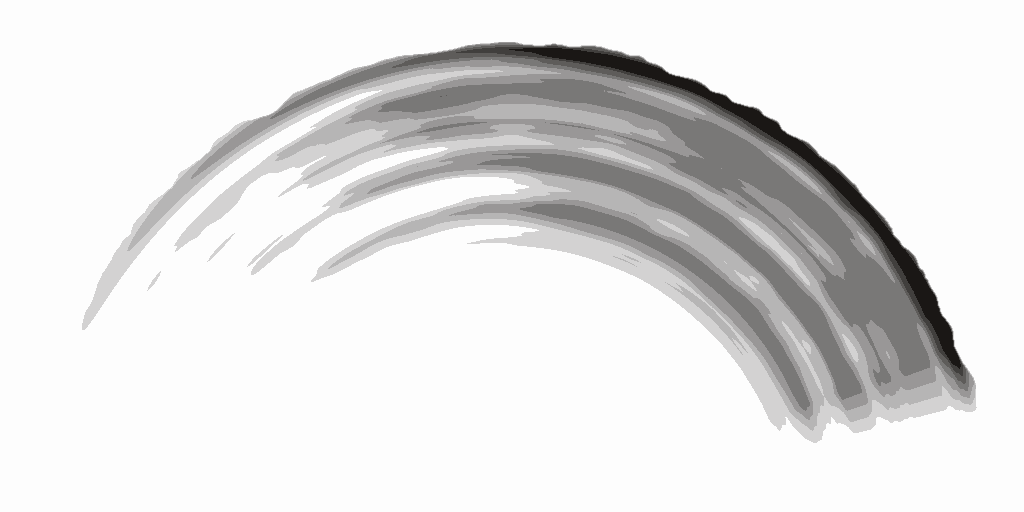
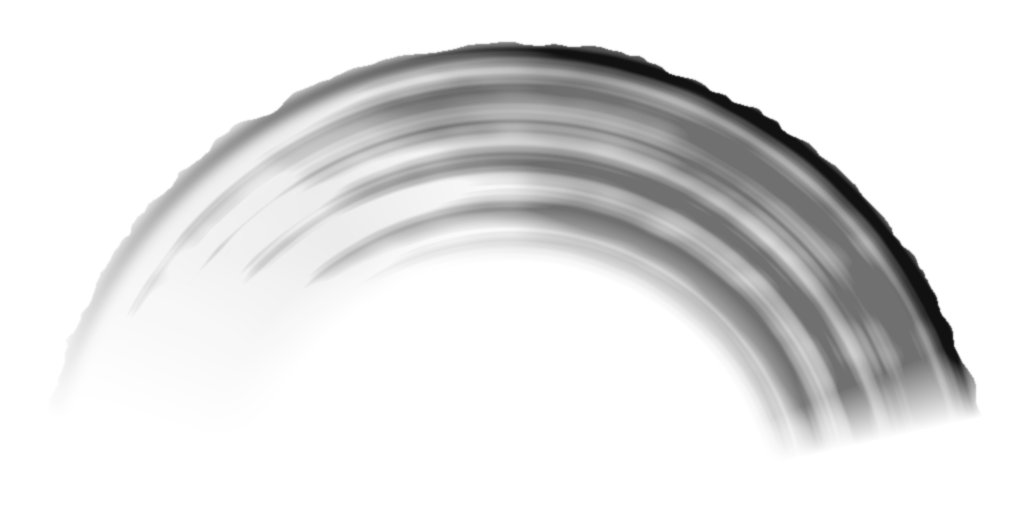
Godot take C8 F-18: slash textures as 256-level greyscale+alpha PNGs, no posterization bands

diff --git a/godot/tools/bake_fx.py b/godot/tools/bake_fx.py
@@ -5,11 +5,13 @@ from brush import Canvas, _fbm
 OUT = '../art'
 rng = np.random.default_rng(7)
 
-def save_ink(a, path, rgb=(20, 17, 15)):
+def save_ink(a, path, rgb=(20, 17, 15), colors=128):
+    """Single ink colour, so only alpha carries information: save as grey+alpha (LA) to keep
+    all 256 alpha levels (RGBA octree quantizing collapsed them to ~8 bands)."""
     a = np.clip(a, 0, 1)
-    im = np.zeros(a.shape + (4,), np.uint8); im[..., 0], im[..., 1], im[..., 2] = rgb
-    im[..., 3] = (a * 255).astype(np.uint8)
-    Image.fromarray(im, 'RGBA').quantize(colors=128, method=Image.Quantize.FASTOCTREE, dither=Image.Dither.NONE).save(path, optimize=True)
+    im = np.zeros(a.shape + (2,), np.uint8); im[..., 0] = int(sum(rgb) / 3)
+    im[..., 1] = (a * 255).astype(np.uint8)
+    Image.fromarray(im, 'LA').save(path, optimize=True)
 
 def slash(path, seed, W=1024, H=512):
     r_ = np.random.default_rng(seed)
